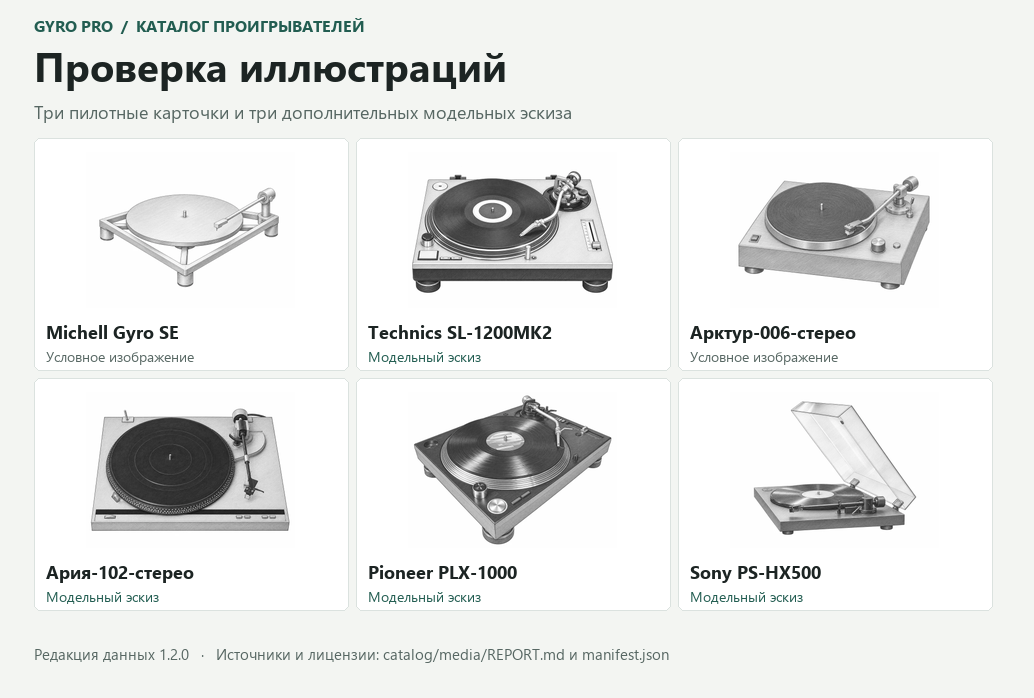
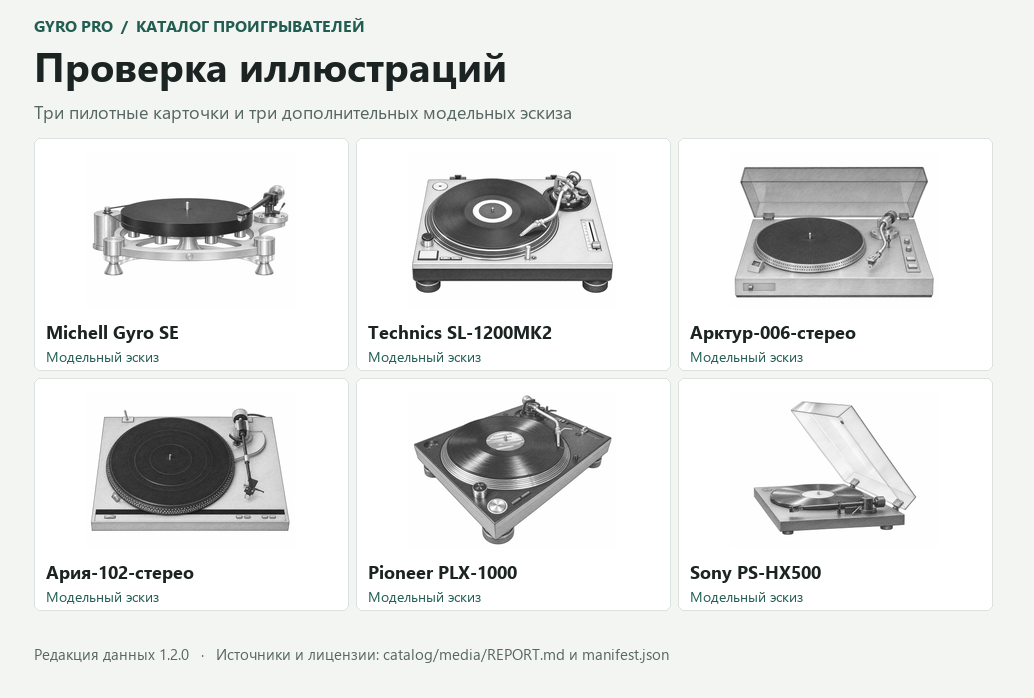
Illustrate Gyro SE and Arktur-006 from documented construction

diff --git a/catalog/illustrations.py b/catalog/illustrations.py
@@ -27,8 +27,48 @@ def check_file(root, relative):
         raise ValueError(f"Unreadable illustration: {relative}") from exc
 
 
+def check_construction_study(entry):
+    sources = entry.get("construction_sources")
+    if not isinstance(sources, list) or "reference" in entry or "additional_references" in entry:
+        raise ValueError("Independent study requires a separate construction evidence list")
+    photos, manuals = set(), set()
+    for source in sources:
+        if not isinstance(source, dict) or not all(
+            isinstance(source.get(k), str) and source[k].strip()
+            for k in ("title", "organization", "page", "detail", "locator", "type")
+        ):
+            raise ValueError("Incomplete construction source")
+        url = urlsplit(source["page"])
+        if url.scheme not in ("http", "https") or not url.hostname:
+            raise ValueError("Invalid construction source URL")
+        location = (source["page"], source["locator"])
+        if source["type"] == "photograph":
+            photos.add(location)
+        elif source["type"] == "manual":
+            manuals.add(location)
+        else:
+            raise ValueError("Unknown construction source type")
+    if len(photos) < 2 or not manuals:
+        raise ValueError("Two distinct photo views and a factory manual are required")
+    credit = entry.get("artwork_credit")
+    if not isinstance(credit, dict) or not all(isinstance(credit.get(k), str)
+            and credit[k].strip() for k in ("credit", "license", "license_url")):
+        raise ValueError("Missing independent artwork credit")
+
+
 def check_evidence(entry):
-    source, review = entry.get("reference"), entry.get("visual_review")
+    review = entry.get("visual_review")
+    if not isinstance(review, dict) or not all(
+        isinstance(review.get(key), str) and review[key].strip() for key in ("full_size", "card_size")
+    ):
+        raise ValueError("Missing visual review at both sizes")
+    mode = entry.get("creation", "reference_redraw")
+    if mode == "independent_study":
+        check_construction_study(entry)
+        return
+    if mode != "reference_redraw":
+        raise ValueError("Unknown illustration creation mode")
+    source = entry.get("reference")
     required = ("page", "author", "title", "depicted", "identification", "license", "license_url", "changes")
     if not isinstance(source, dict) or not all(
         isinstance(source.get(key), str) and source[key].strip() for key in required
@@ -45,14 +85,11 @@ def check_evidence(entry):
             raise ValueError("Missing supporting reference details")
     if source["depicted"] != entry["caption"]:
         raise ValueError("Depicted model differs from caption")
-    if not isinstance(review, dict) or not all(
-        isinstance(review.get(key), str) and review[key].strip() for key in ("full_size", "card_size")
-    ):
-        raise ValueError("Missing visual review at both sizes")
+
 
 
 def validate_illustrations(models, manifest, root):
-    if not isinstance(manifest, dict) or manifest.get("version") != 1 or not isinstance(manifest.get("assignments"), list):
+    if not isinstance(manifest, dict) or manifest.get("version") != 2 or not isinstance(manifest.get("assignments"), list):
         raise ValueError("Invalid illustration manifest")
     names = {row["model_id"]: (row["model"] if row["manufacturer"].casefold() in row["model"].casefold()
                              else f"{row['manufacturer']} {row['model']}") for row in models}

diff --git a/catalog/test_illustrations.py b/catalog/test_illustrations.py
@@ -43,6 +43,18 @@ class IllustrationTests(unittest.TestCase):
                 with self.assertRaises(ValueError):
                     validate_illustrations(self.models, doc, self.media)
 
+    def test_independent_study_requires_distinct_views_and_manual(self):
+        from illustrations import check_evidence
+        study = next(r for r in self.manifest["assignments"] if r.get("creation") == "independent_study")
+        check_evidence(study)
+        manual = next(r for r in study["construction_sources"] if r["type"] == "manual")
+        photos = [r for r in study["construction_sources"] if r["type"] == "photograph"]
+        for sources in (photos, [manual, photos[0], photos[0]]):
+            with self.assertRaises(ValueError):
+                check_evidence(dict(study, construction_sources=sources))
+        with self.assertRaises(ValueError):
+            check_evidence(dict(study, reference={}))
+
     def test_invalid_files(self):
         from PIL import Image
         with tempfile.TemporaryDirectory() as tmp:

diff --git a/catalog/media/REPORT.md b/catalog/media/REPORT.md
@@ -1,8 +1,8 @@
 # Иллюстрации каталога Gyro Pro
 
-База для сверки — коммит `63a19cde1e7d079ae48176f50c1e00960753da09`, редакция данных 1.2.0. Все 154 уникальных ID сохранены. Итог — 9 индивидуальных эскизов и 145 карточек с подписью «Условное изображение». Обозначение SL-1210GR2 имеет отдельную условную подпись в манифесте и не увеличивает количество моделей.
+База для сверки — коммит `63a19cde1e7d079ae48176f50c1e00960753da09`, редакция данных 1.2.0. Все 154 уникальных ID сохранены. Итог — 11 индивидуальных эскизов и 143 карточек с подписью «Условное изображение». Обозначение SL-1210GR2 имеет отдельную условную подпись в манифесте и не увеличивает количество моделей.
 
-В комплект входят 13 уникальных WebP, в том числе четыре общих. Размер файлов изображений — 969 188 байт. APK не собирался, прирост размера APK не измерялся.
+В комплект входят 15 уникальных WebP, в том числе четыре общих. Размер файлов изображений — 1 086 720 байт. APK не собирался, прирост размера APK не измерялся.
 
 [Полный обзорный лист](../review/catalog-overview.png) · [Пилотные карточки](../review/pilot-sheet.png) · [Манифест](manifest.json) · [Журнал по каждому ID](research.json)
 
@@ -14,14 +14,14 @@
 | --- | ---: | ---: | ---: | ---: | ---: | ---: | ---: |
 | Audio-Technica | 11 | 0 | 11 | 8 | 0 | 3 | 0 |
 | Dual | 31 | 2 | 29 | 5 | 3 | 16 | 5 |
-| Michell | 8 | 0 | 8 | 5 | 0 | 1 | 2 |
+| Michell | 8 | 1 | 7 | 5 | 0 | 0 | 2 |
 | Pioneer | 34 | 1 | 33 | 26 | 0 | 7 | 0 |
 | Rega | 22 | 0 | 22 | 13 | 2 | 5 | 2 |
 | Sony | 5 | 1 | 4 | 1 | 0 | 3 | 0 |
 | Technics | 11 | 4 | 7 | 5 | 2 | 0 | 0 |
 | Thorens | 12 | 0 | 12 | 0 | 1 | 11 | 0 |
 | Ария | 1 | 1 | 0 | 0 | 0 | 0 | 0 |
-| Арктур | 1 | 0 | 1 | 0 | 0 | 1 | 0 |
+| Арктур | 1 | 1 | 0 | 0 | 0 | 0 | 0 |
 | Вега | 4 | 0 | 4 | 0 | 0 | 3 | 1 |
 | Импульс | 1 | 0 | 1 | 0 | 0 | 1 | 0 |
 | Корвет | 2 | 0 | 2 | 0 | 0 | 1 | 1 |
@@ -30,23 +30,23 @@
 | Феникс | 2 | 0 | 2 | 0 | 0 | 2 | 0 |
 | Электроника | 5 | 0 | 5 | 0 | 0 | 5 | 0 |
 | Эстония | 1 | 0 | 1 | 0 | 0 | 1 | 0 |
-| **Итого** | 154 | 9 | 145 | 63 | 9 | 62 | 11 |
+| **Итого** | 154 | 11 | 143 | 63 | 9 | 60 | 11 |
 
 Отказов генерации: 0. Окончательно отклонённых модельных рисунков после визуальной проверки: 0. Были исправлены черновики Dual 1019, Dual 704, Technics SL-1100 и SL-1200MK5. Непригодные референсы отражены в журнале отдельно.
 
 ## Пилот и проверка
 
-- Gyro SE. Проверены история Michell и общий вид с трёхточечным шасси. Для переработки найденных снимков точного Gyro SE не подтверждена лицензия. Выбран условный рисунок открытого шасси. Снимки GyroDec рассматривались отдельно. [Michell](https://www.michellaudio.com/about) · [Gyro SE](https://www.whathifi.com/reviews/michell-gyro-se-cusis-s)
+- Gyro SE. Самостоятельная композиция построена по описанию открытого шасси, отдельного мотора, подвеса и правой опоры тонарма. В первом черновике исправлено положение передних опор. Изображён один вариант установки тонарма. [Сборочная инструкция, с. 2, 5–6](https://www.manualslib.com/manual/1831480/Michell-Engineering-Gyro-Se-Mk-Ii.html) · [Фотосерия Gyro SE](https://www.lefflers.se/produkt/michell-engineering-gyro-se)
 - SL-1200MK2. Проверены история серии, подпись фотографии и лицензия файла. На эскизе сверены расположение диска, S-образный тонарм, ползунок и передние клавиши. [Фото и условия использования](https://commons.wikimedia.org/wiki/File:Technics_SL-1200MK2-2.jpg)
-- Арктур-006-стерео. В заводском руководстве на листе 4 (печатная страница 6, рисунок 2) показан готовый аппарат. Архив указывает авторов фотосерии, но разрешение на переработку не установлено. Выбран условный рисунок классического корпуса. [Инструкция](https://rw6ase.narod.ru/index1/gram_zapis/ep_s_el/arktur006in.djvu) · [Музейная карточка](https://rw6ase.narod.ru/index1/gram_zapis/ep_s_el/arktur006s.html)
+- Арктур-006-стерео. Самостоятельный рисунок серебристого варианта сверён с общим видом в руководстве (лист 4, печатные с. 6–7, рис. 2) и несколькими фотографиями. Проверены положение выключателя на передней грани, две подстройки, две клавиши и S-образный тонарм справа. [Инструкция](https://rw6ase.narod.ru/index1/gram_zapis/ep_s_el/arktur006in.djvu) · [Фотосерия](https://rw6ase.narod.ru/index1/gram_zapis/ep_s_el/arktur006s.html)
 
 Для каждого ID проверены источники идентификации каталога и выполнен поиск в Wikimedia Commons и Openverse по точной модели. Журнал содержит реальные запросы, страницы, причины решений и, где удалось установить конструкцию, основание выбора условного рисунка. Ссылки в выборках поисковой выдачи — кандидаты, а не одобренные референсы.
 
-Модельные изображения сгенерированы встроенным ImageGen с фотографией в качестве входа. Результаты сверены с исходником в полном размере и рядом с миниатюрой шириной около 150 пикселей. Белые поля добавлены без растягивания изображения; выпуск — 960 × 720 WebP. Индивидуальные детали показанного экземпляра, в частности картридж или заменённый тонарм, не задают штатную комплектацию.
+Девять эскизов созданы встроенным ImageGen по лицензированным фотографиям. Для Gyro SE и Арктур-006 генератор получил только текстовое описание конструкции и выбранного ракурса. Документы и фотографии использованы для изучения устройства и визуальной проверки. Результаты сверены с исходником в полном размере и рядом с миниатюрой шириной около 150 пикселей. Белые поля добавлены без растягивания изображения; выпуск — 960 × 720 WebP. Индивидуальные детали показанного экземпляра, в частности картридж или заменённый тонарм, не задают штатную комплектацию.
 
 ## Источники модельных эскизов
 
-Иллюстрации переработаны в графитные рисунки: фон, надписи и посторонние предметы убраны. Для каждого модельного рисунка применяется лицензия его основного референса; сохраните авторство и ссылки при распространении. Четыре оригинальных условных рисунка поставляются с атрибуцией Gyro Pro catalog, CC BY 4.0. Весь набор атрибуций также находится в офлайн-манифесте.
+Иллюстрации переработаны в графитные рисунки: фон, надписи и посторонние предметы убраны. Для девяти переработок применяется лицензия основного референса; сохраните авторство и ссылки при распространении. Самостоятельные эскизы Gyro SE и Арктур-006 и четыре оригинальных условных рисунка поставляются с атрибуцией Gyro Pro catalog, CC BY 4.0. Весь набор атрибуций также находится в офлайн-манифесте.
 
 - **Dual 1019**. Jacques from Cape Town, South Africa. [Источник](https://commons.wikimedia.org/wiki/File:Dual_1019_-_top_(13054461235).jpg) · [CC BY 2.0](https://creativecommons.org/licenses/by/2.0)
 - **Dual 704**. touhotus. [Источник](https://www.flickr.com/photos/12577725@N05/6083009087) · [CC BY 2.0](https://creativecommons.org/licenses/by/2.0/)

diff --git a/catalog/README.md b/catalog/README.md
@@ -41,7 +41,7 @@ After dependency installation these commands work offline. The check validates t
 
 From the repository root, run `python catalog/catalog.py bundle ../gyro-turntables-assets.zip` after installing the dependencies above. Extract the ZIP into `app/src/main/assets/`. The archive root is `turntables/`; the catalog is `turntables/catalog.json` and the illustration manifest is `turntables/media/manifest.json`. Resolve a model ID in `assignments`, then open its `path` relative to the manifest directory. Render its `caption` verbatim. It either identifies the pictured model or says «Условное изображение». Use the separate `related_designations` entry when looking up a related name. It has its own caption decision and adds no model ID.
 
-The manifest also carries per-image attribution, source and license links and the visual review notes. Keep it with the images. Four original generic plates are stored once and referenced by multiple rows. The catalog validator checks every assignment and decodes all WebP files during both check and build. Adding a model requires a media assignment in the same change.
+Manifest version 2 distinguishes licensed redraws from independent studies. For the latter, `artwork_credit` applies to the new illustration, while `construction_sources` identifies the factory manual and photographic views consulted to check the construction. The manifest also carries per-image attribution, source and license links and the visual review notes. Keep it with the images. Four original generic plates are stored once and referenced by multiple rows. The catalog validator checks every assignment and decodes all WebP files during both check and build. Adding a model requires a media assignment in the same change.
 
 [Coverage, source credits and review notes](media/REPORT.md) · [All 154 thumbnails](review/catalog-overview.png) · [Per-model research log](media/research.json)
 

diff --git a/LICENSE.md b/LICENSE.md
@@ -12,7 +12,7 @@ Suggested attribution: "Gyro Analyzer documentation / Official Gyro Optical Targ
 
 ## Turntable illustrations
 
-The four original generic illustrations are distributed under CC BY 4.0. Each model-specific WebP uses the license of its main reference as identified in the [illustration credits](catalog/media/REPORT.md) and the [offline attribution manifest](catalog/media/manifest.json). Retain the credits, modification notices and license links with the images, including when distributing the overview sheets.
+The four original generic illustrations and independent studies marked `independent_study` are distributed under CC BY 4.0. Each redraw made from a licensed image uses the license of its main reference as identified in the [illustration credits](catalog/media/REPORT.md) and the [offline attribution manifest](catalog/media/manifest.json). Retain the credits, modification notices and license links with the images, including when distributing the overview sheets.
 
 ## Excluded materials
 
